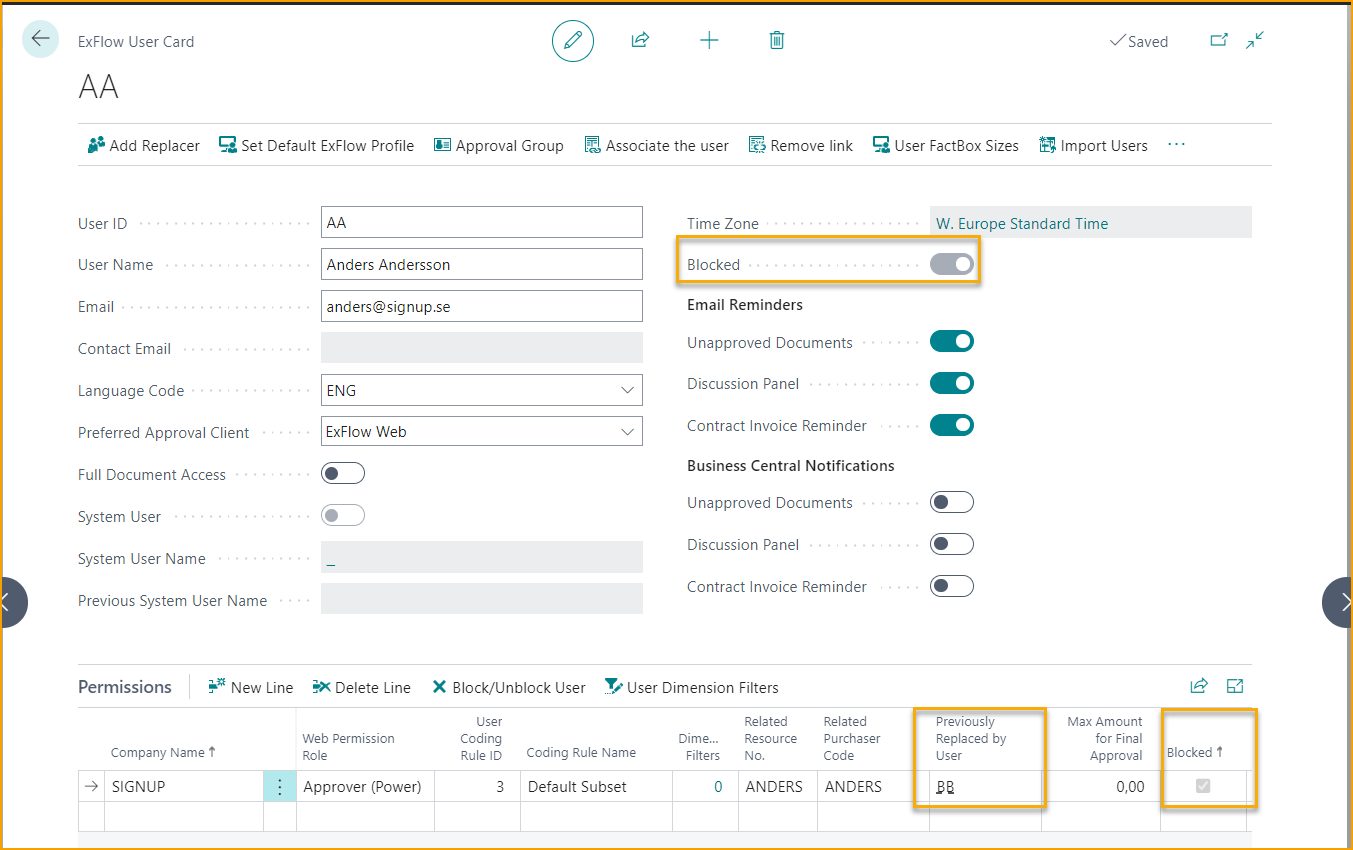
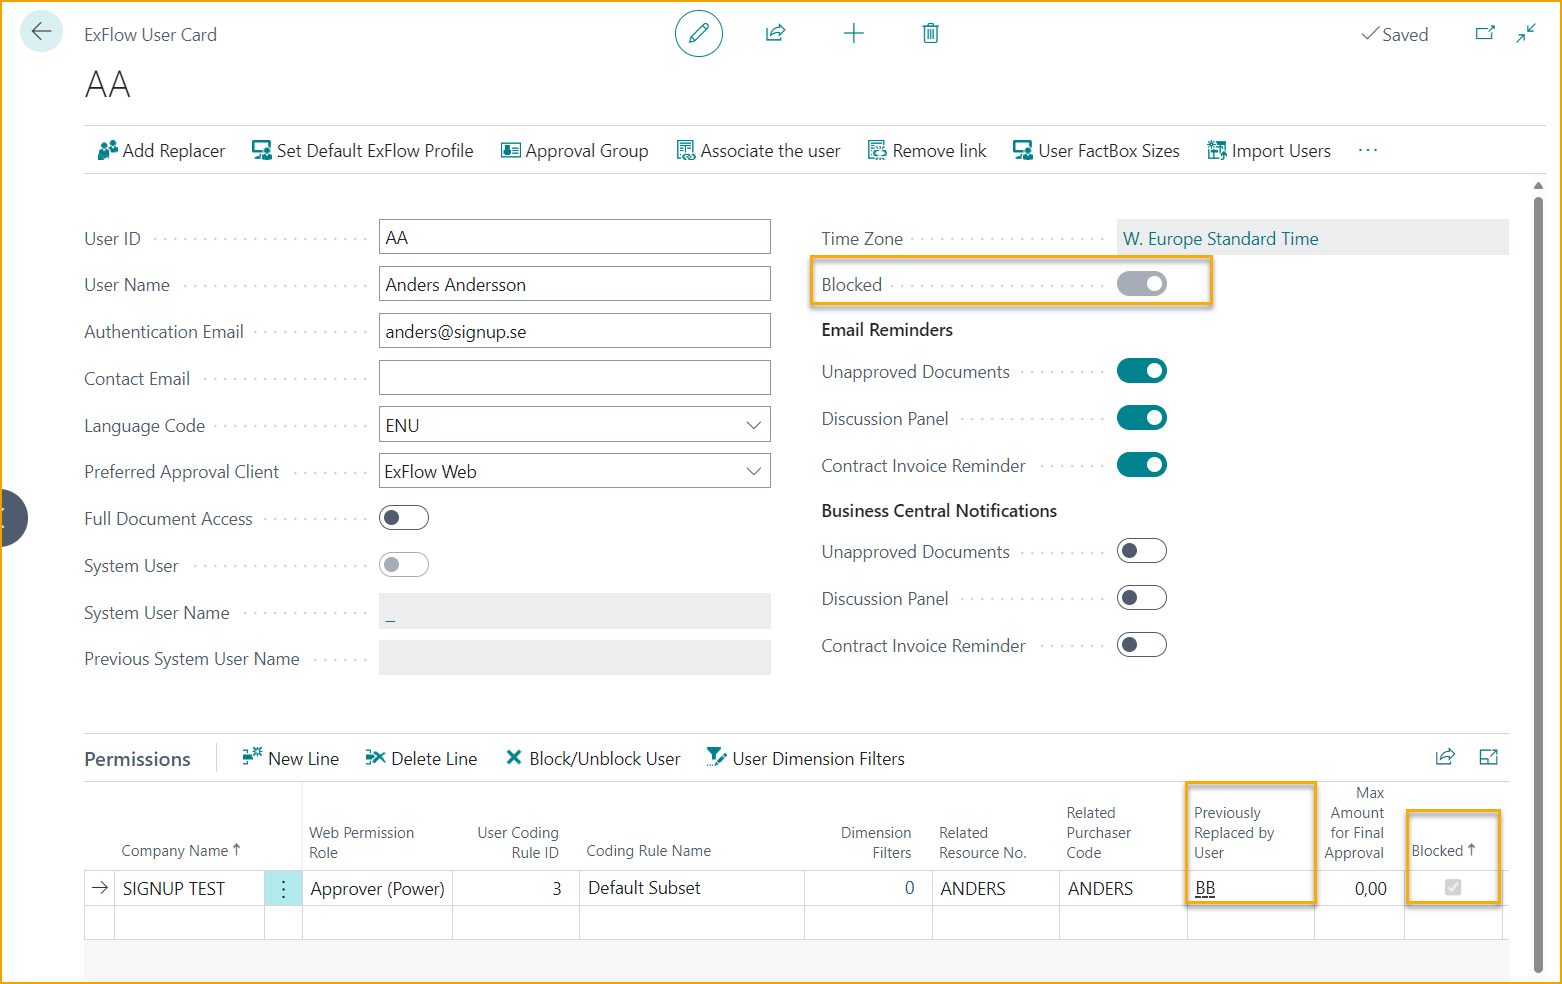
exf user updates

diff --git a/i18n/de/docusaurus-plugin-content-docs/current/user-manual/3-business-functionality/2-exflow-user.md b/i18n/de/docusaurus-plugin-content-docs/current/user-manual/3-business-functionality/2-exflow-user.md
@@ -58,8 +58,8 @@ Gehe zu: ***Setup --> ExFlow Manual Setup --> ExFlow Benutzer***
 |:-|:-|
 | **Benutzer-ID:**                      | Benutzer-ID ohne Domäne hinzufügen
 | **Benutzername:**                    | Vollständige Namen der Genehmiger hinzufügen
-| **E-Mail:**                        | Microsoft-Authentifizierungs-E-Mail-Adresse (AAD), die ExFlow für die Kommunikation mit Genehmigern verwendet, d. h. Anmeldung bei ExFlow Web, Erinnerungen, wenn der Genehmiger Dokumente zur Genehmigung hat, und ExFlow-Kommentare aus dem Diskussionspanel/Chat
-| **Kontakt-E-Mail:**                | E-Mail-Adresse des verbundenen Systembenutzers in Business Central. Wenn die M365-E-Mail von der Kontakt-E-Mail abweicht, wird die Erinnerungs-E-Mail an die Kontakt-E-Mail-Adresse gesendet. Die Anmeldung bei ExFlow Web erfolgt jedoch weiterhin über die M365/AAD-E-Mail
+| **Authentifizierungs-E-Mail** | Microsoft-Authentifizierungs-E-Mail-Adresse (AAD), die ExFlow für die Anmeldung bei ExFlow Web und für die Kommunikation mit Genehmigen verwendet, d. h. zum Senden von Erinnerungen, wenn der Genehmiger Dokumente zu genehmigen hat, sowie für ExFlow-Kommentare aus dem Diskussionsbereich/Chat. <br/><br/> Diese E-Mail wird während der Erstellung des ExFlow-Benutzers vom Business Central-Systembenutzer übernommen (die Kontakt-E-Mail wird ebenfalls mit derselben E-Mail-Adresse ausgefüllt). <br/><br/> Alle ExFlow-Benutzer müssen über eine Authentifizierungs-E-Mail verfügen.
+| **Kontakt-E-Mail:** | Fügen Sie eine Kontakt-E-Mail-Adresse hinzu, wenn ExFlow-Erinnerungen und -Benachrichtigungen an diese E-Mail anstelle der Authentifizierungs-E-Mail-Adresse gesendet werden sollen. <br/><br/> Kontakt-E-Mail ist ein optionales Feld. 
 | **Sprachcode:**                | In welcher Sprache E-Mails gesendet werden
 | **Bevorzugter Genehmigungsklient:**    | Gibt an, ob der Hyperlink in den E-Mails für Erinnerungen und Nachrichten den Benutzer zu Business Central oder ExFlow Web führt
 | **Vollständiger Dokumentenzugriff:**         | Gibt an, ob der Benutzer Zugriff auf ExFlow-Dokumente in allen Unternehmen haben soll

diff --git a/docs/user-manual/3-business-functionality/2-exflow-user.md b/docs/user-manual/3-business-functionality/2-exflow-user.md
@@ -61,8 +61,8 @@ Go To: ***Setup --> ExFlow Manual Setup --> ExFlow User***
 |:-|:-|
 | **User ID:**                      | Add User ID without Domain
 | **User Name:**                    | Add Approvers' full names
-| **Email:**                        | Microsoft Authentication (AAD) email address that ExFlow will use for communication with approvers, i.e., log in to ExFlow Web, reminders if approver have documents to approve and ExFlow Comments from Discussion Panel/Chat
-| **Contact Email:**                | Email address from the connected system user in Business Central. If the M365 email is different to the contact email, then the inbox reminder will be sent to the contact email address instead. However, login to ExFlow Web will still be via M365/AAD email
+| **Authentication Email**          | Microsoft Authentication (AAD) email address that ExFlow will use for login to ExFlow Web and for communication with approvers, i.e., send reminders if approver have documents to approve and ExFlow Comments from Discussion Panel/Chat. <br/><br/> This email is picked up from Business Central system user during creation of ExFlow user (Contact Email will also be populated with same email address). <br/><br/> All ExFlow Users must have an Authentication Email.
+| **Contact Email:**                | Add a Contact Email if ExFlow reminders and notifications should be sent to this email instead of the Authentication Email address. <br/><br/> Contact Email is an optional field. 
 | **Language Code:**                | In which language emails will be sent
 | **Preferred Approval Client:**    | Specifies if the hyperlink in the emails for Reminders and Messages will take the user to Business Central or ExFlow Web
 | **Full Document Access:**         | Specifies if user should have access to ExFlow documents in all companies
